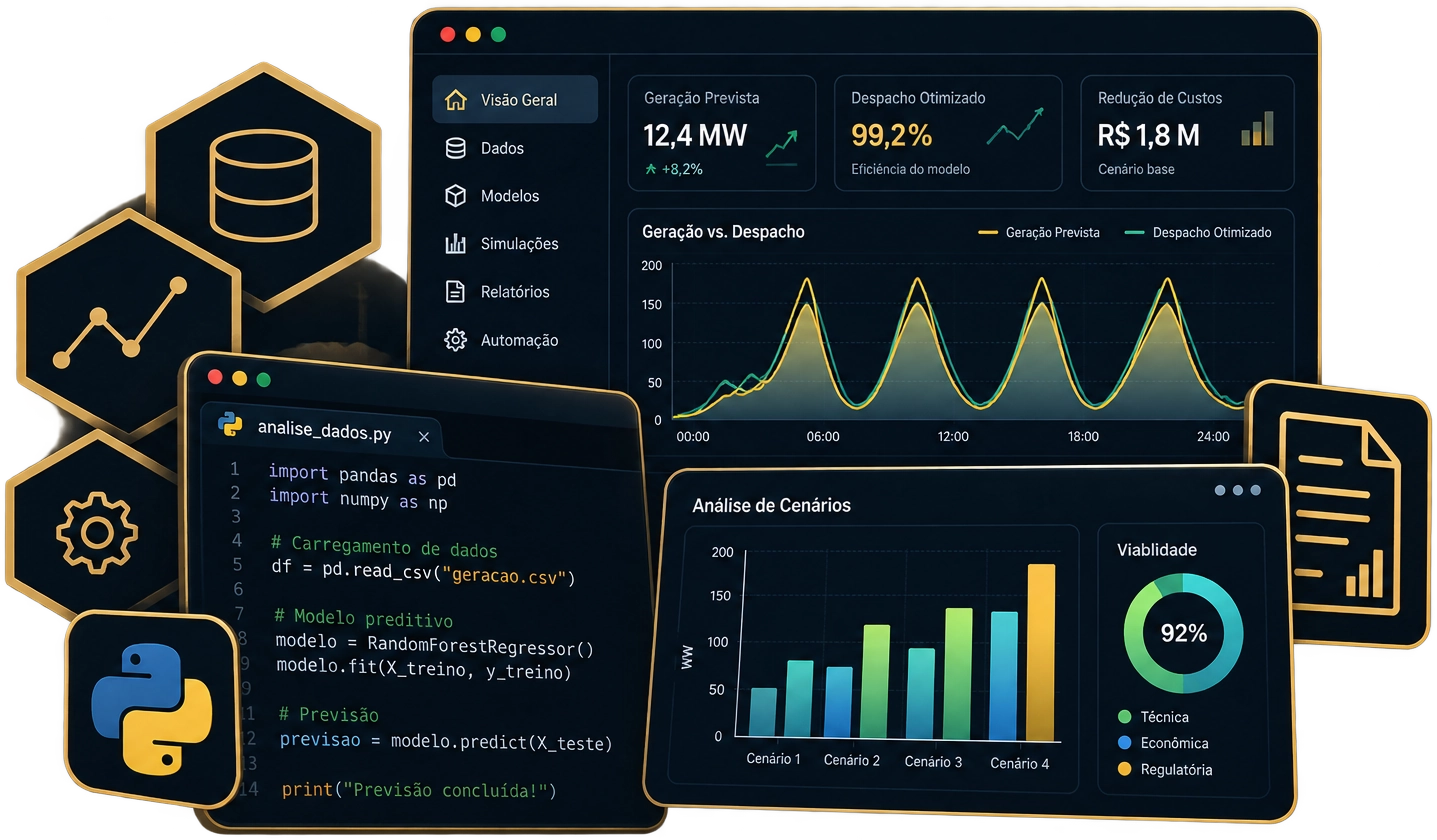
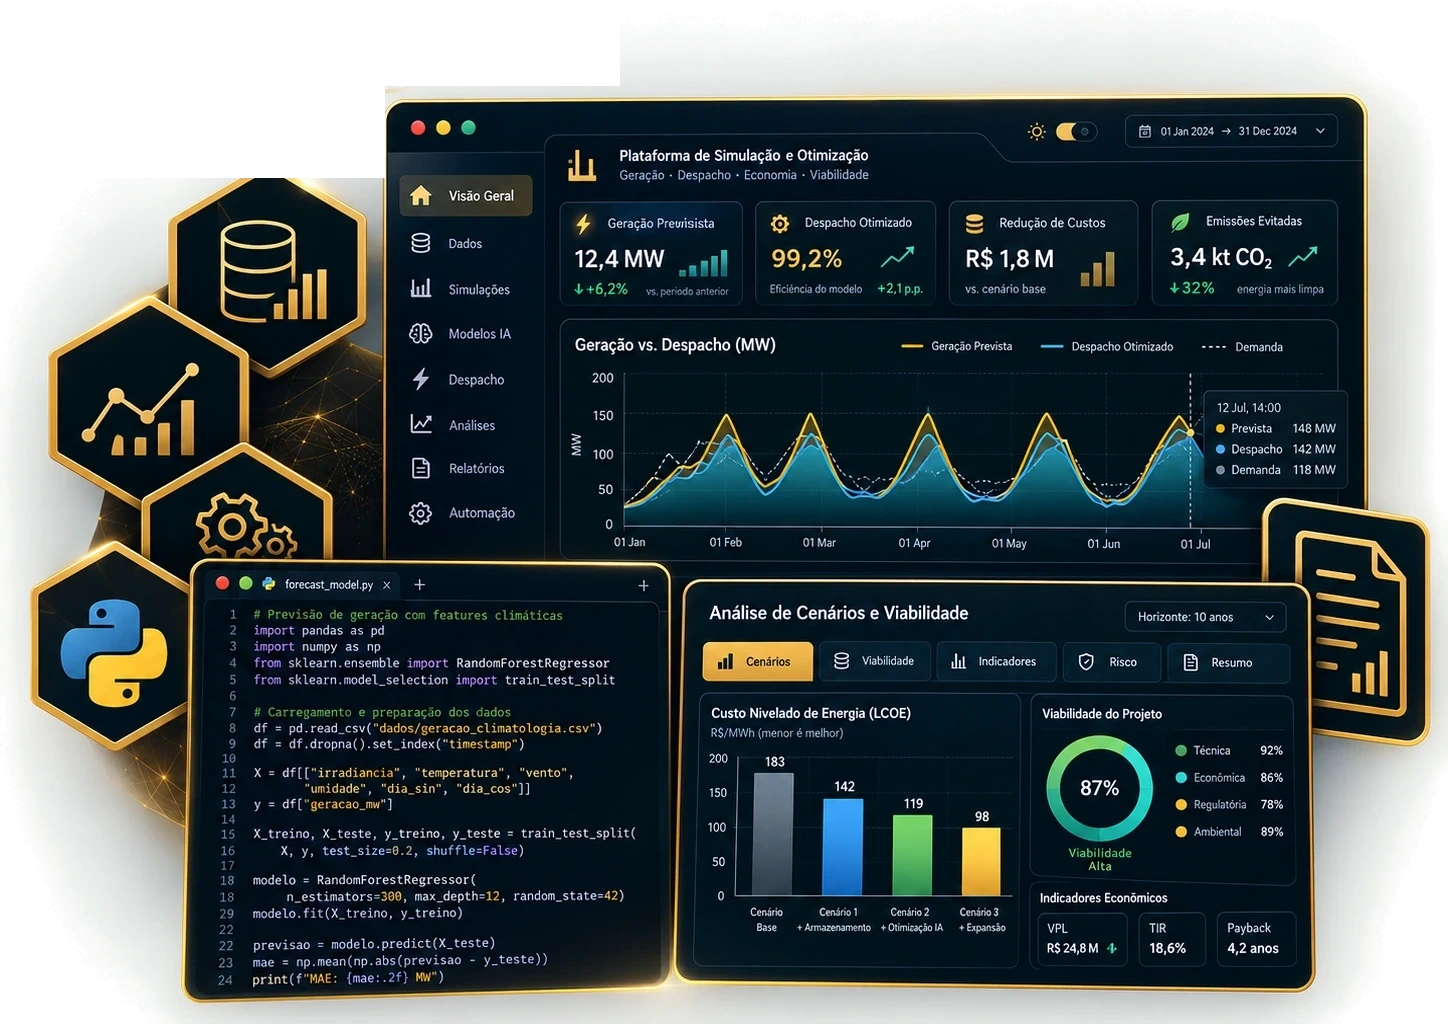
feat(simuladores): atualizar arte composta digital twin e modelos python com dados enriquecidos

diff --git a/src/components/DailyMeals.tsx b/src/components/DailyMeals.tsx
@@ -130,8 +130,8 @@ export function DailyMeals() {
             <div data-inertia-item="" className="flavour-left-dose is-composite-art">
               <img
                 src="/assets/images/projects/digital-twin-composite.webp"
-                width={1437}
-                height={840}
+                width={1448}
+                height={1024}
                 alt={INTERACTIVE_SHOWCASE.projectName}
                 data-inertia-item-child=""
                 className="flavour-left-dose-img is-composite-img"
